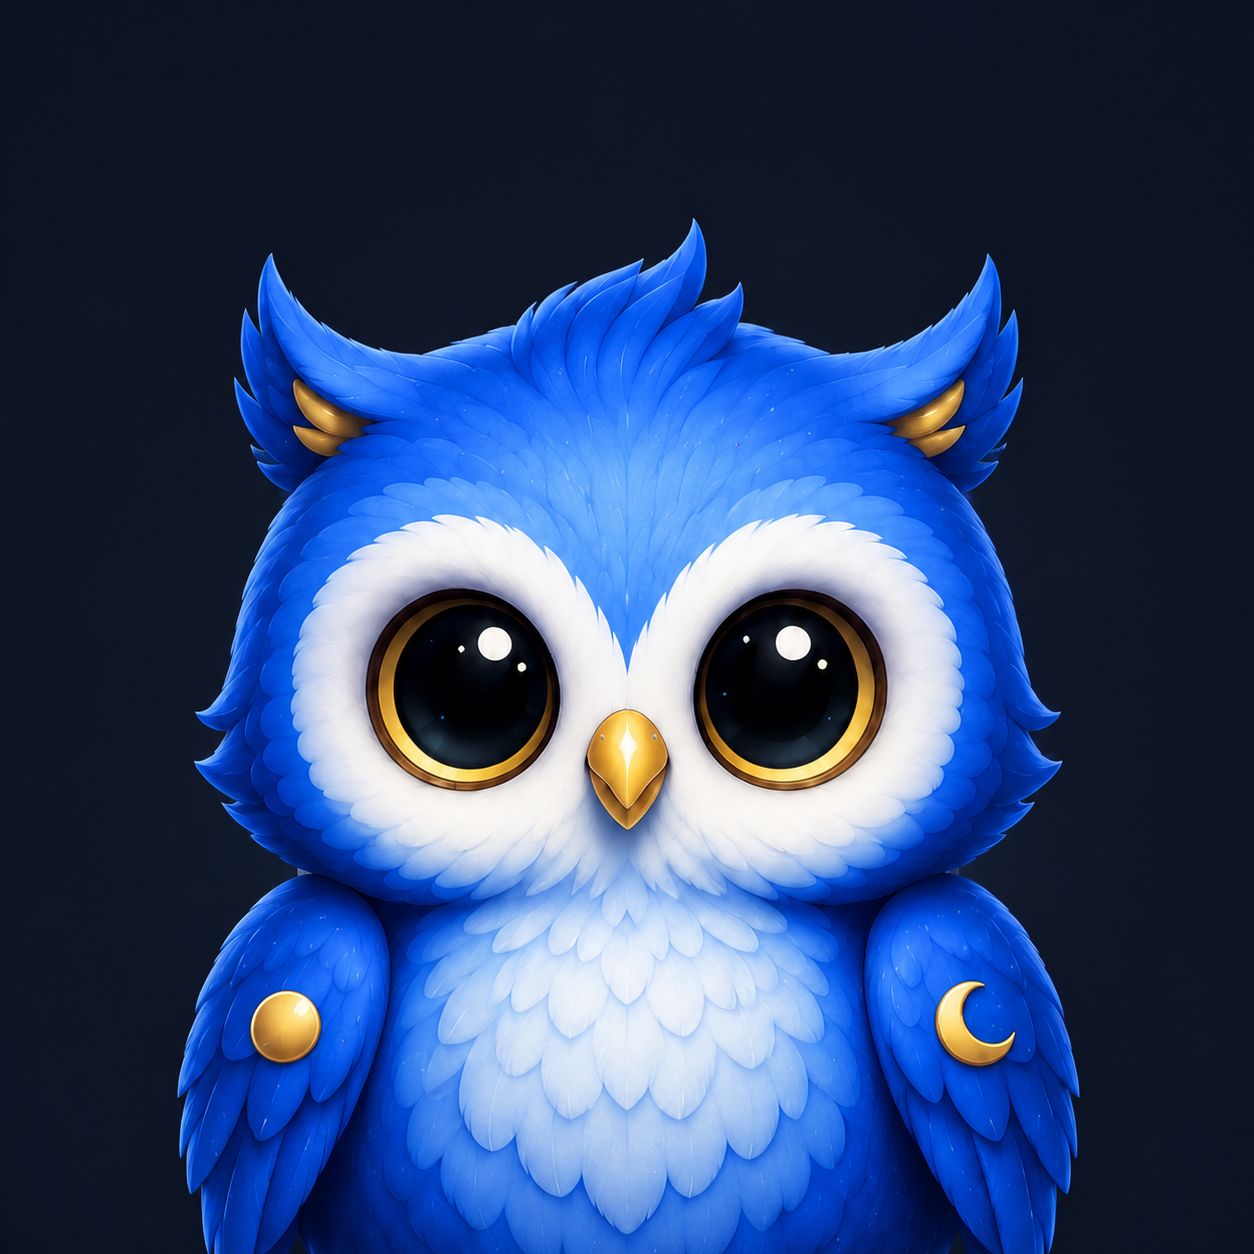
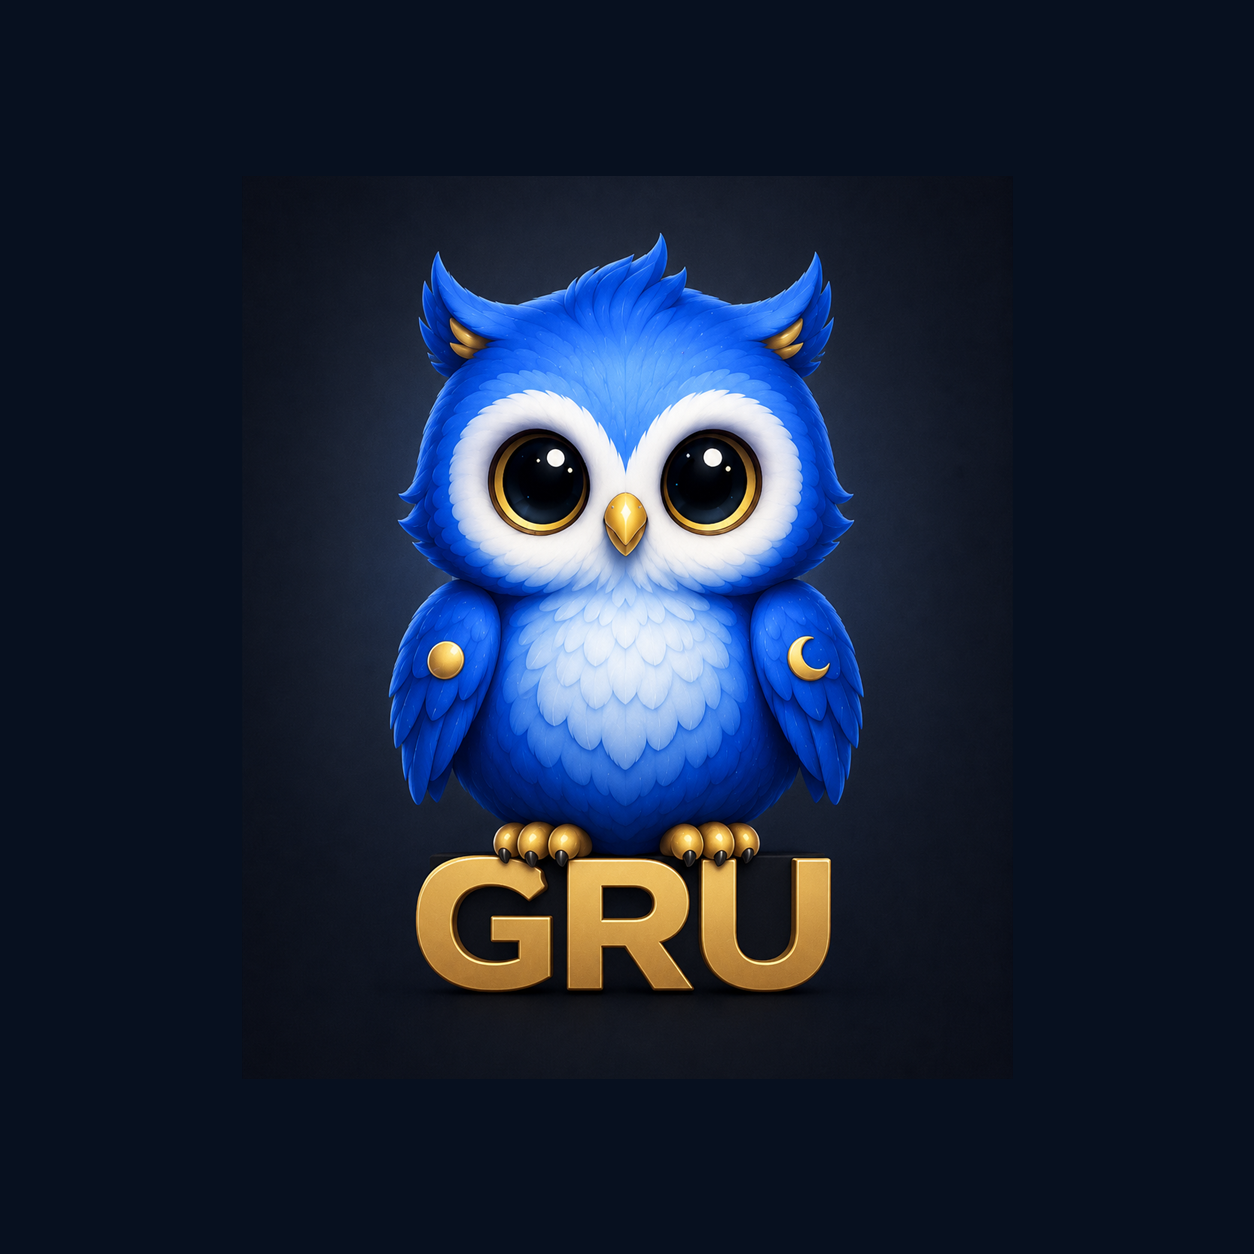
fix: preserve the complete Gro artwork

diff --git a/app/src/gru/kotlin/com/pguillen/gru/GruActivity.kt b/app/src/gru/kotlin/com/pguillen/gru/GruActivity.kt
@@ -23,7 +23,6 @@ import androidx.compose.foundation.layout.padding
 import androidx.compose.foundation.layout.size
 import androidx.compose.foundation.layout.Arrangement
 import androidx.compose.foundation.Image
-import androidx.compose.foundation.shape.CircleShape
 import androidx.compose.material3.ExperimentalMaterial3Api
 import androidx.compose.material3.MaterialTheme
 import androidx.compose.material3.PrimaryTabRow
@@ -41,7 +40,6 @@ import androidx.compose.runtime.remember
 import androidx.compose.runtime.setValue
 import androidx.compose.ui.Modifier
 import androidx.compose.ui.Alignment
-import androidx.compose.ui.draw.clip
 import androidx.compose.ui.platform.LocalContext
 import androidx.compose.ui.res.painterResource
 import androidx.compose.ui.res.stringResource
@@ -143,7 +141,7 @@ private fun GruBrandTitle() {
         Image(
             painter = painterResource(R.drawable.gru_brand_gro),
             contentDescription = stringResource(R.string.gru__brand_logo),
-            modifier = Modifier.size(40.dp).clip(CircleShape),
+            modifier = Modifier.size(48.dp),
         )
         Text(stringResource(R.string.gru__app_name))
     }

diff --git a/DESIGN.md b/DESIGN.md
@@ -7,7 +7,7 @@ Gru é uma ferramenta Android cuja interface principal desaparece depois da conf
 ## Visual System
 
 - Gro, a coruja azul e branca com detalhes dourados, é a identidade principal no launcher, splash e cabeçalho.
-- A marca compacta usa o rosto do Gro sobre azul-marinho; a composição completa é preservada como master institucional.
+- A marca preserva a composição completa do Gro, incluindo corpo, detalhes dourados e o texto `GRU`; somente o espaço escuro excedente pode ser removido.
 - Material 3 e Dynamic Color estruturam a tela em temas claro e escuro.
 - A tela usa áreas abertas, sem cartões aninhados ou decoração sem função.
 - A navegação possui somente duas abas: `Geral` e `Transcrição`.
